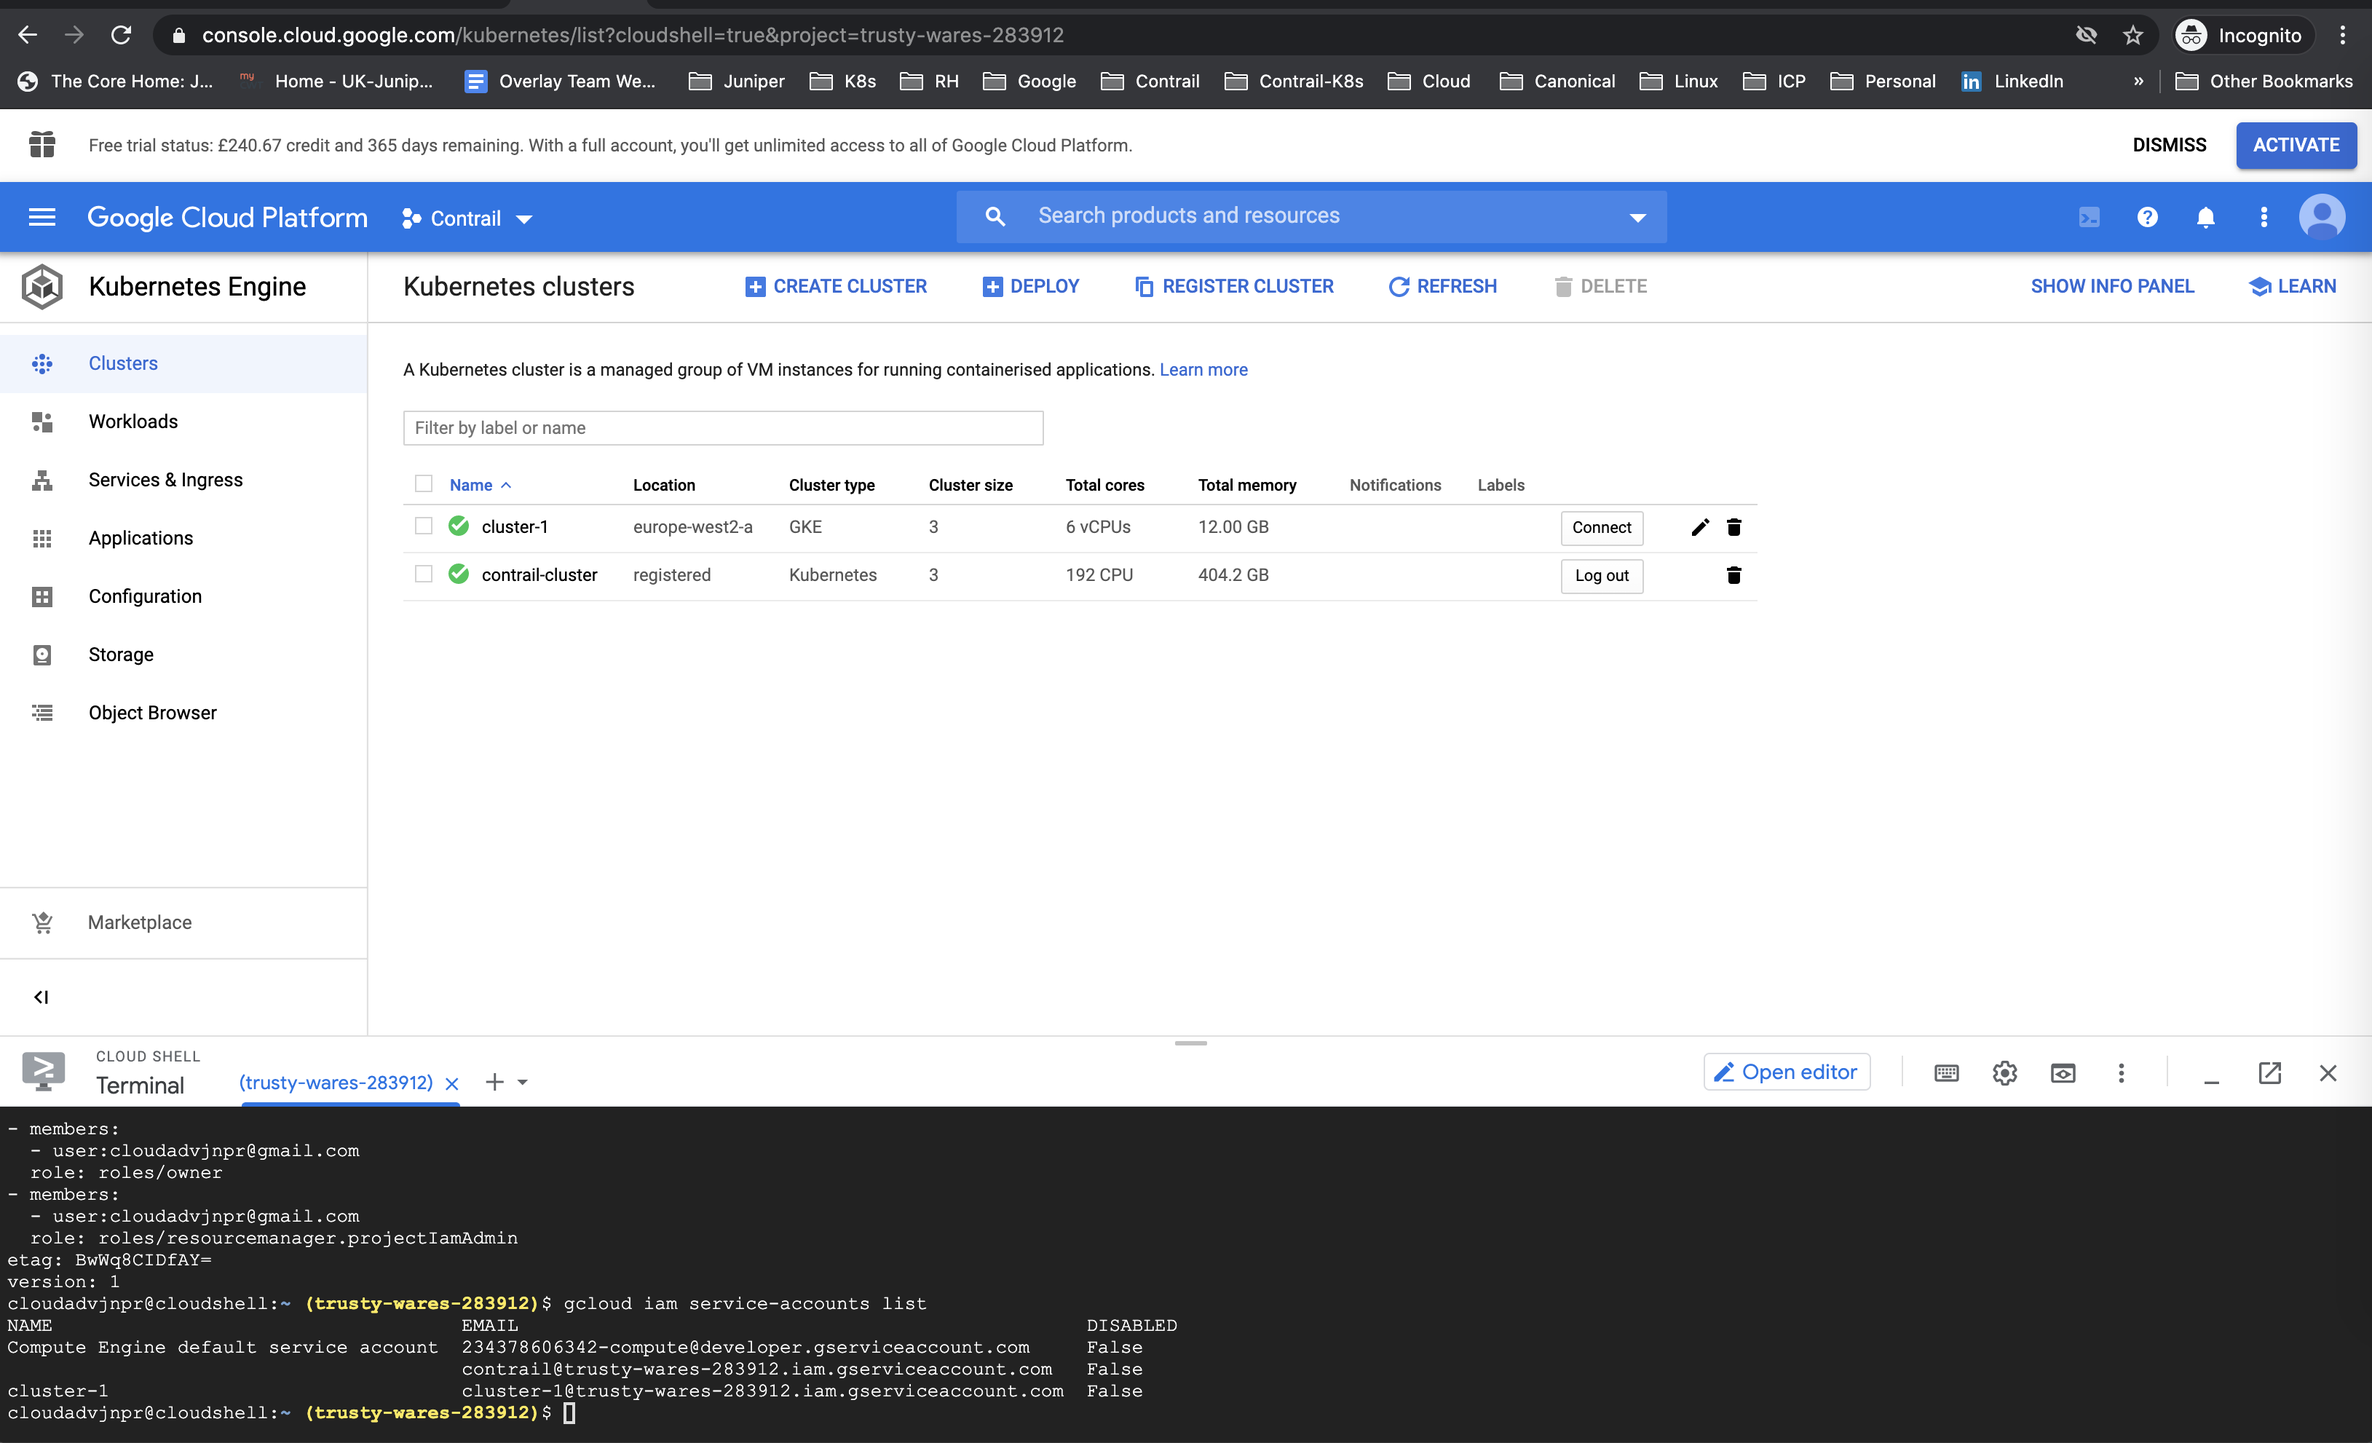
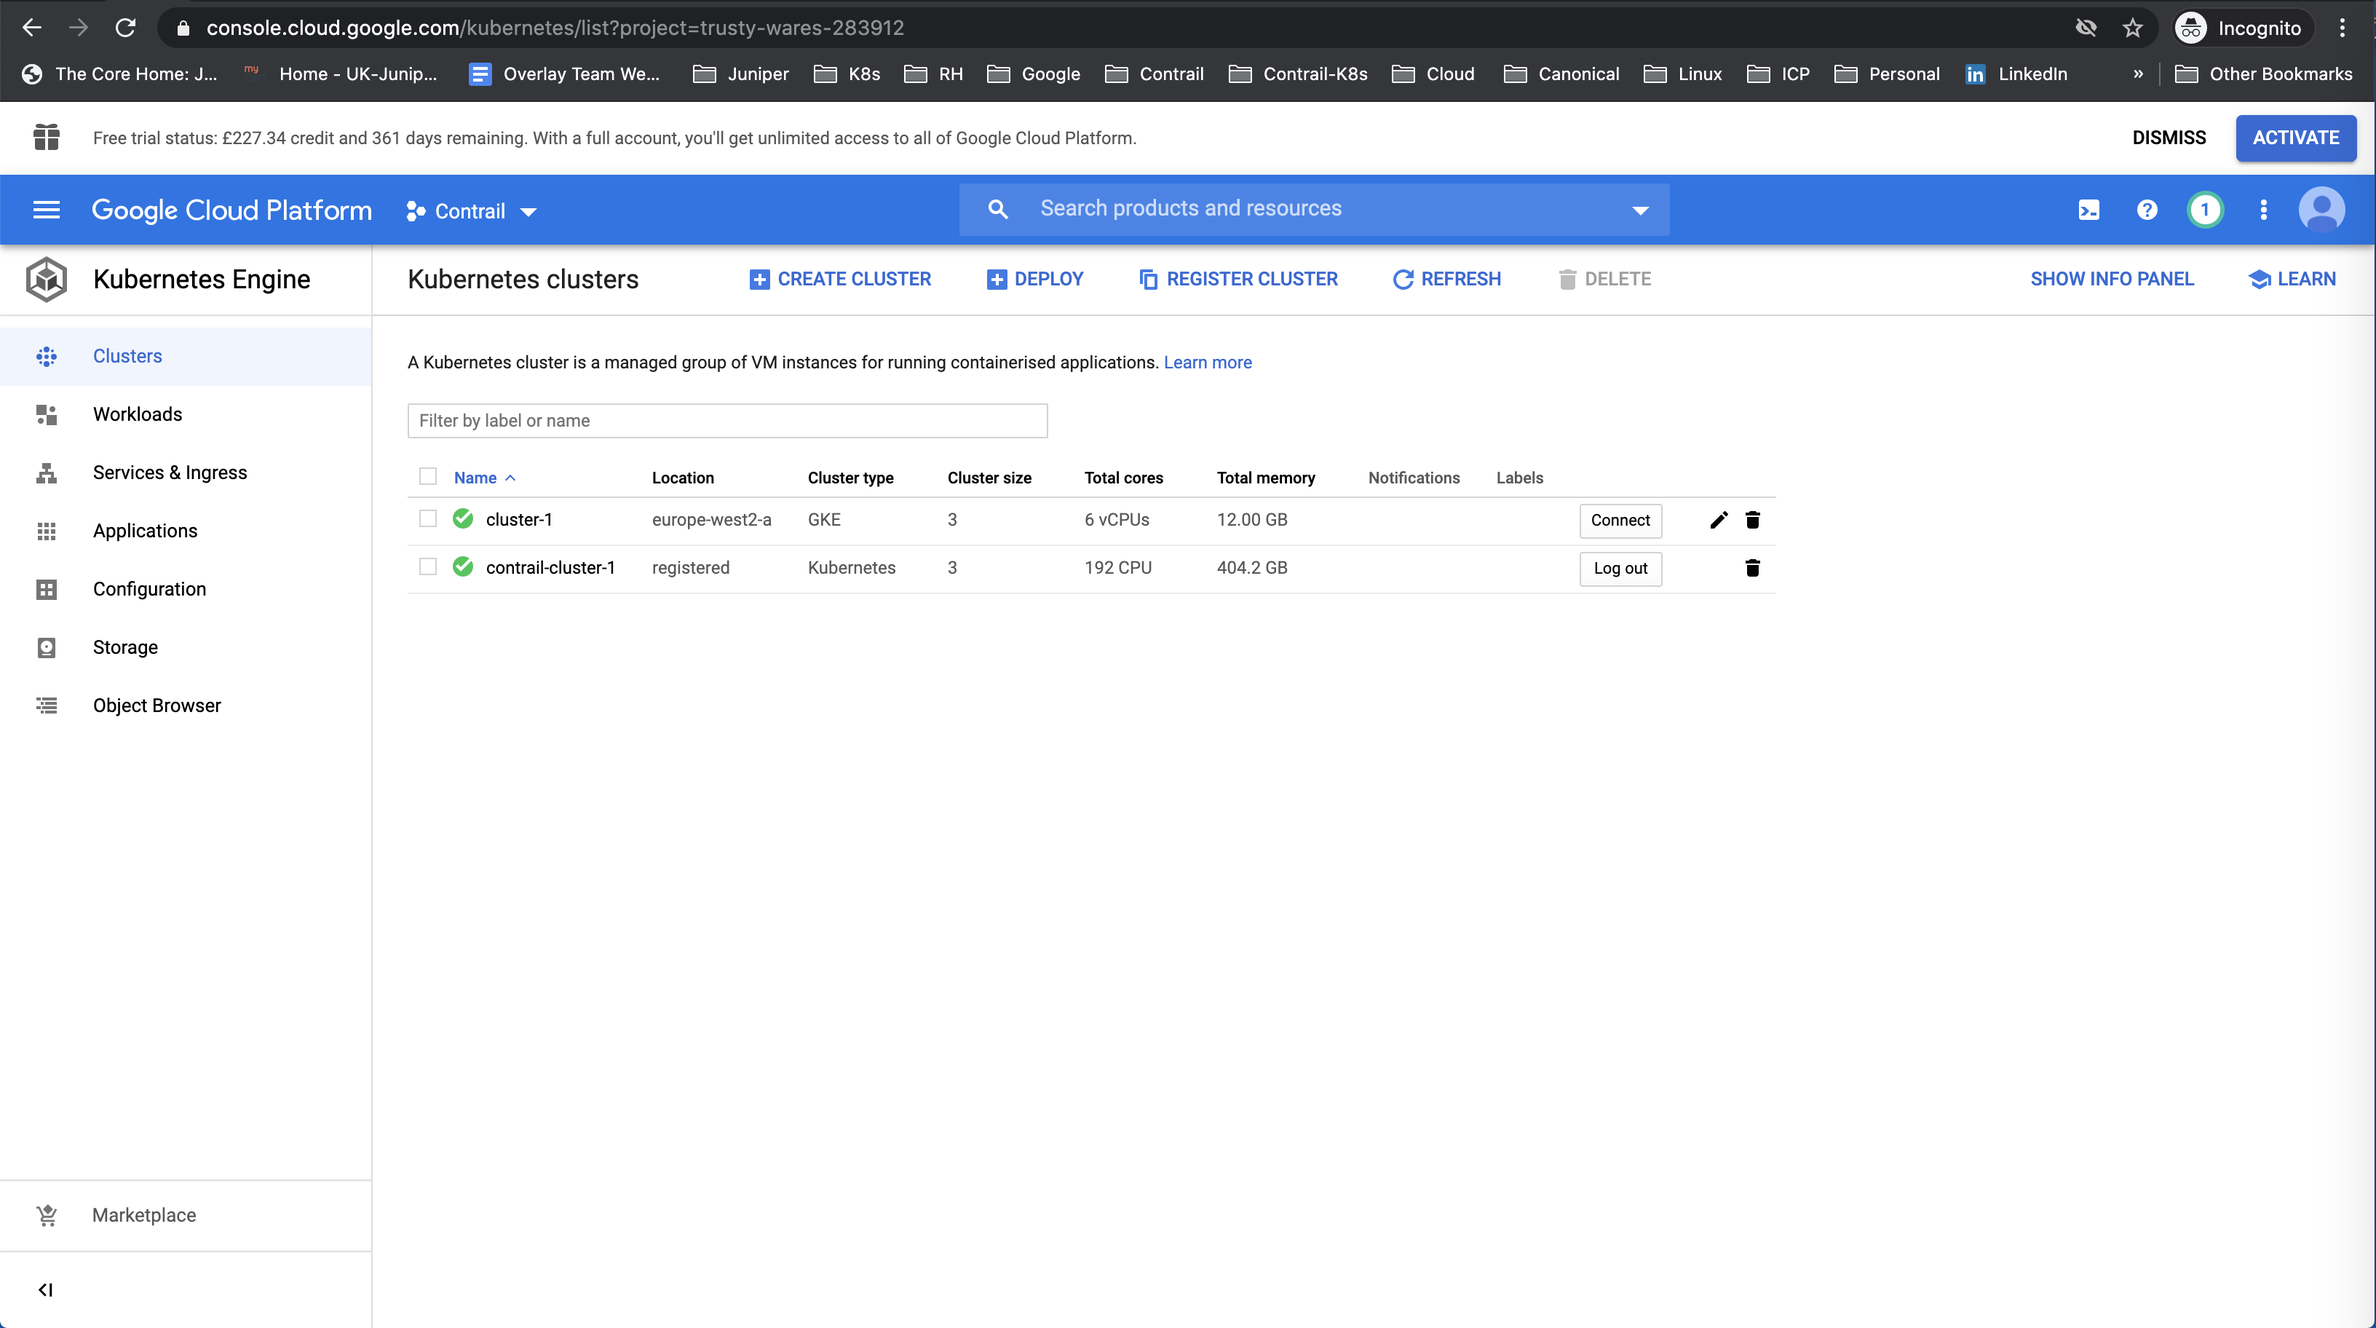
update 4

diff --git a/docs/register_contrail_cluster_in_anthos.md b/docs/register_contrail_cluster_in_anthos.md
@@ -19,43 +19,44 @@ Deploy a GKE cluster and then register it to Anthos
 
 Install a Kubernetes cluster with Contrail on any VM/BMS on-prem. Check this [Wiki](https://github.com/ovaleanujnpr/Kubernetes/wiki/Installing-Kubernetes-with-Contrail) for deployment.
 
-In this case I installed Kubernetes 1.18.5 on BMS with Ubuntu 18.04 OS.
+In this case I installed Kubernetes 1.16.11 on BMS with Ubuntu 18.04 OS.
 
 ```
 # kubectl get nodes -o wide
-NAME                      STATUS   ROLES    AGE   VERSION   INTERNAL-IP       EXTERNAL-IP   OS-IMAGE             KERNEL-VERSION       CONTAINER-RUNTIME
-r9-ru24.csa.juniper.net   Ready    worker   19d   v1.18.5   192.168.213.114   <none>        Ubuntu 18.04.4 LTS   4.15.0-108-generic   docker://19.3.11
-r9-ru25.csa.juniper.net   Ready    worker   20d   v1.18.5   192.168.213.113   <none>        Ubuntu 18.04.4 LTS   4.15.0-108-generic   docker://19.3.11
-r9-ru26.csa.juniper.net   Ready    master   20d   v1.18.5   192.168.213.112   <none>        Ubuntu 18.04.4 LTS   4.15.0-108-generic   docker://19.3.11
+NAME                      STATUS   ROLES    AGE   VERSION    INTERNAL-IP       EXTERNAL-IP   OS-IMAGE             KERNEL-VERSION       CONTAINER-RUNTIME
+r9-ru24.csa.juniper.net   Ready    <none>   16h   v1.16.11   192.168.213.114   <none>        Ubuntu 18.04.4 LTS   4.15.0-108-generic   docker://18.9.9
+r9-ru25.csa.juniper.net   Ready    <none>   16h   v1.16.11   192.168.213.113   <none>        Ubuntu 18.04.4 LTS   4.15.0-108-generic   docker://18.9.9
+r9-ru26.csa.juniper.net   Ready    master   16h   v1.16.11   192.168.213.112   <none>        Ubuntu 18.04.4 LTS   4.15.0-108-generic   docker://18.9.9
 ```
 
 After the Kubernetes cluster is deployed I install Contrail using single yaml file.
 ```
 $ kubectl get po -n kube-system
 NAME                                              READY   STATUS    RESTARTS   AGE
-config-zookeeper-st8gj                            1/1     Running   0          19d
-contrail-agent-n2kqz                              3/3     Running   0          19d
-contrail-agent-pj25z                              3/3     Running   0          19d
-contrail-analytics-alarm-w9m4l                    4/4     Running   0          19d
-contrail-analytics-cwkgk                          4/4     Running   0          19d
-contrail-analytics-snmp-mf6kq                     4/4     Running   0          19d
-contrail-analyticsdb-zlp4w                        4/4     Running   0          19d
-contrail-configdb-6m5ht                           3/3     Running   0          19d
-contrail-controller-config-2t948                  6/6     Running   0          19d
-contrail-controller-control-vwczl                 5/5     Running   0          19d
-contrail-controller-webui-8d6mz                   2/2     Running   0          19d
-contrail-kube-manager-bqtrw                       1/1     Running   0          19d
-coredns-66bff467f8-dh8n2                          1/1     Running   0          19d
-coredns-66bff467f8-fff52                          1/1     Running   0          20d
-etcd-r9-ru26.csa.juniper.net                      1/1     Running   0          20d
-kube-apiserver-r9-ru26.csa.juniper.net            1/1     Running   0          20d
-kube-controller-manager-r9-ru26.csa.juniper.net   1/1     Running   0          20d
-kube-proxy-5q6xd                                  1/1     Running   0          20d
-kube-proxy-l4fnj                                  1/1     Running   0          19d
-kube-proxy-n7l6p                                  1/1     Running   0          20d
-kube-scheduler-r9-ru26.csa.juniper.net            1/1     Running   0          20d
-rabbitmq-x7cnk                                    1/1     Running   0          19d
-redis-22bb7                                       1/1     Running   0          19d
+config-zookeeper-6kqsf                            1/1     Running   0          16h
+contrail-agent-qpxqd                              3/3     Running   0          16h
+contrail-agent-vrcsl                              3/3     Running   0          16h
+contrail-agent-xvbhq                              3/3     Running   0          16h
+contrail-analytics-alarm-m7rhg                    4/4     Running   0          16h
+contrail-analytics-mnx2q                          4/4     Running   0          16h
+contrail-analytics-snmp-v5dzj                     4/4     Running   0          16h
+contrail-analyticsdb-z6cfm                        4/4     Running   0          16h
+contrail-configdb-jp9sg                           3/3     Running   0          16h
+contrail-controller-config-7zn25                  6/6     Running   0          16h
+contrail-controller-control-7nf97                 5/5     Running   0          16h
+contrail-controller-webui-7xgp7                   2/2     Running   0          16h
+contrail-kube-manager-qqh52                       1/1     Running   0          16h
+coredns-5644d7b6d9-njzsm                          1/1     Running   0          16h
+coredns-5644d7b6d9-rfn8t                          1/1     Running   0          16h
+etcd-r9-ru26.csa.juniper.net                      1/1     Running   0          16h
+kube-apiserver-r9-ru26.csa.juniper.net            1/1     Running   0          16h
+kube-controller-manager-r9-ru26.csa.juniper.net   1/1     Running   0          16h
+kube-proxy-nkh65                                  1/1     Running   0          16h
+kube-proxy-nvmwd                                  1/1     Running   0          16h
+kube-proxy-xqrsd                                  1/1     Running   0          16h
+kube-scheduler-r9-ru26.csa.juniper.net            1/1     Running   0          16h
+rabbitmq-f4tws                                    1/1     Running   0          16h
+redis-xlzvb                                       1/1     Running   0          16h
 ```
 
 Now, it is time to register our on-prem Kubernetes cluster to Anthos.
@@ -132,7 +133,7 @@ _Note: if `kubectl` version is lower than the [minimum supported Kubernetes vers
 yum -y update kubectl
 ```
 
-I am running Kubernetes 1.18.5 so I don't need to update it.
+I am running Kubernetes 1.16.11 so I don't need to update it.
 
 I need to authorize `gcloud` to access Google Cloud
 
@@ -185,7 +186,7 @@ A JSON file containing Google Cloud Service Account credentials is required to m
 $ gcloud iam service-accounts create [SERVICE_ACCOUNT_NAME] --project=[PROJECT_ID]
 ```
 
-In my case `[SERVICE_ACCOUNT_NAME]` is contrail. You can choose any name.
+In my case `[SERVICE_ACCOUNT_NAME]` is `contrail-cluster-1`. You can choose any name.
 
 Bind the gkehub.connect IAM role to the service account:
 
@@ -201,7 +202,7 @@ $ gcloud iam service-accounts keys create [LOCAL_KEY_PATH] \
   --iam-account=[SERVICE_ACCOUNT_NAME]@[PROJECT_ID].iam.gserviceaccount.com \
   --project=[PROJECT_ID]
 ```
-The `[LOCAL_KEY_PATH]` is saved in `/tmp/creds/contrail-trusty-wares-283912.json`
+The `[LOCAL_KEY_PATH]` is saved in `/tmp/creds/contrail-cluster-1-trusty-wares-283912.json`
 
 Grant the cluster-admin RBAC role to the user registering the cluster
 
@@ -219,36 +220,37 @@ gcloud container hub memberships register [MEMBERSHIP_NAME] \
    --service-account-key-file=SERVICE_ACCOUNT_KEY_PATH
 ```
 
-In my case, `[MEMBERSHIP_NAME]` is `contrail-cluster` (chosen by me), '[KUBECONFIG_CONTEXT]' is the output for `kubectl config current-context` and `[SERVICE_ACCOUNT_KEY_PATH]` is `/tmp/creds/contrail-trusty-wares-283912.json`.
+In my case, `[MEMBERSHIP_NAME]` is `contrail-cluster-1` (chosen by me), '[KUBECONFIG_CONTEXT]' is the output for `kubectl config current-context` and `[SERVICE_ACCOUNT_KEY_PATH]` is `/tmp/creds/contrail-cluster-1-trusty-wares-283912.json`.
 
 When the command finishes a new pod called gke-connect-agent will run in the cluster. This is responsabile to communication with GKE Hub as I decribed above.
 ```
 $ kubectl get pods -A
 NAMESPACE     NAME                                                READY   STATUS    RESTARTS   AGE
-gke-connect   gke-connect-agent-20200710-02-00-59477469f8-lhngc   1/1     Running   0          30h
-kube-system   config-zookeeper-st8gj                              1/1     Running   0          21d
-kube-system   contrail-agent-n2kqz                                3/3     Running   0          21d
-kube-system   contrail-agent-pj25z                                3/3     Running   0          21d
-kube-system   contrail-analytics-alarm-w9m4l                      4/4     Running   0          21d
-kube-system   contrail-analytics-cwkgk                            4/4     Running   0          21d
-kube-system   contrail-analytics-snmp-mf6kq                       4/4     Running   0          21d
-kube-system   contrail-analyticsdb-zlp4w                          4/4     Running   0          21d
-kube-system   contrail-configdb-6m5ht                             3/3     Running   0          21d
-kube-system   contrail-controller-config-2t948                    6/6     Running   0          21d
-kube-system   contrail-controller-control-vwczl                   5/5     Running   0          21d
-kube-system   contrail-controller-webui-8d6mz                     2/2     Running   0          21d
-kube-system   contrail-kube-manager-bqtrw                         1/1     Running   0          21d
-kube-system   coredns-66bff467f8-dh8n2                            1/1     Running   0          21d
-kube-system   coredns-66bff467f8-fff52                            1/1     Running   0          21d
-kube-system   etcd-r9-ru26.csa.juniper.net                        1/1     Running   0          21d
-kube-system   kube-apiserver-r9-ru26.csa.juniper.net              1/1     Running   0          21d
-kube-system   kube-controller-manager-r9-ru26.csa.juniper.net     1/1     Running   0          21d
-kube-system   kube-proxy-5q6xd                                    1/1     Running   0          21d
-kube-system   kube-proxy-l4fnj                                    1/1     Running   0          21d
-kube-system   kube-proxy-n7l6p                                    1/1     Running   0          21d
-kube-system   kube-scheduler-r9-ru26.csa.juniper.net              1/1     Running   0          21d
-kube-system   rabbitmq-x7cnk                                      1/1     Running   0          21d
-kube-system   redis-22bb7                                         1/1     Running   0          21d
+gke-connect   gke-connect-agent-20200717-00-00-58c749c9d7-l9v66   1/1     Running   0          23m
+kube-system   config-zookeeper-6kqsf                              1/1     Running   0          16h
+kube-system   contrail-agent-qpxqd                                3/3     Running   0          16h
+kube-system   contrail-agent-vrcsl                                3/3     Running   0          16h
+kube-system   contrail-agent-xvbhq                                3/3     Running   0          16h
+kube-system   contrail-analytics-alarm-m7rhg                      4/4     Running   0          16h
+kube-system   contrail-analytics-mnx2q                            4/4     Running   0          16h
+kube-system   contrail-analytics-snmp-v5dzj                       4/4     Running   0          16h
+kube-system   contrail-analyticsdb-z6cfm                          4/4     Running   0          16h
+kube-system   contrail-configdb-jp9sg                             3/3     Running   0          16h
+kube-system   contrail-controller-config-7zn25                    6/6     Running   0          16h
+kube-system   contrail-controller-control-7nf97                   5/5     Running   0          16h
+kube-system   contrail-controller-webui-7xgp7                     2/2     Running   0          16h
+kube-system   contrail-kube-manager-qqh52                         1/1     Running   0          16h
+kube-system   coredns-5644d7b6d9-njzsm                            1/1     Running   0          16h
+kube-system   coredns-5644d7b6d9-rfn8t                            1/1     Running   0          16h
+kube-system   etcd-r9-ru26.csa.juniper.net                        1/1     Running   0          16h
+kube-system   kube-apiserver-r9-ru26.csa.juniper.net              1/1     Running   0          16h
+kube-system   kube-controller-manager-r9-ru26.csa.juniper.net     1/1     Running   0          16h
+kube-system   kube-proxy-nkh65                                    1/1     Running   0          16h
+kube-system   kube-proxy-nvmwd                                    1/1     Running   0          16h
+kube-system   kube-proxy-xqrsd                                    1/1     Running   0          16h
+kube-system   kube-scheduler-r9-ru26.csa.juniper.net              1/1     Running   0          16h
+kube-system   rabbitmq-f4tws                                      1/1     Running   0          16h
+kube-system   redis-xlzvb                                         1/1     Running   0          16h
 ```
 
 _Note: I need SNAT enabled in Contrail to allow gke-connect-agent communication to internet_
@@ -259,7 +261,7 @@ I can view cluster registration status and all the clusters within my Google pro
 $ gcloud container hub memberships list
 NAME                EXTERNAL_ID
 cluster-1           1aac8a94-9f25-4559-bdc6-a663f25417c2
-contrail-cluster    2f7d6521-cf8f-4870-a379-50207ecd579b
+contrail-cluster-1  da221221-0f05-491c-8fe2-2eb4452a593d
 ```
 
 To login to the cluster from the Cloud Console I will use a bearer token. For this I create a Kubernetes service account (KSA) in the cluster.
@@ -280,22 +282,22 @@ EOF
 kubectl apply -f node-reader.yaml
 ```
 
-Create and authorise a KSA. I will use `cluster-admin` role for now.
+Create and authorise a KSA.
 
 ```
 KSA_NAME=[KSA_NAME]
 kubectl create serviceaccount ${KSA_NAME}
-kubectl create clusterrolebinding [BINDING_NAME] \
---clusterrole cluster-admin --serviceaccount default:[KSA_NAME]
+kubectl create clusterrolebinding ksa-view --clusterrole view --serviceaccount default:${KSA_NAME}
+kubectl create clusterrolebinding ksa-node-reader --clusterrole node-reader --serviceaccount default:${KSA_NAME}
+kubectl create clusterrolebinding binding-account --clusterrole cluster-admin --serviceaccount default:${KSA_NAME}
 ```
 
-In my case, `[KSA_NAME]` is `contrail-sa` and `[BINDING_NAME]` is `contrail-admin`.
-Both name chosen by me.
+In my case, `[KSA_NAME]` is `contrail-cluster-1-sa`.
 
 To acquire the KSA's bearer token, run the following command:
 
 ```
-SECRET_NAME=$(kubectl get serviceaccount [KSA_NAME] -o jsonpath='{$.secrets[0].name}')
+SECRET_NAME=$(kubectl get serviceaccount ${KSA_NAME} -o jsonpath='{$.secrets[0].name}')
 kubectl get secret ${SECRET_NAME} -o jsonpath='{$.data.token}' | base64 --decode
 ```
 
